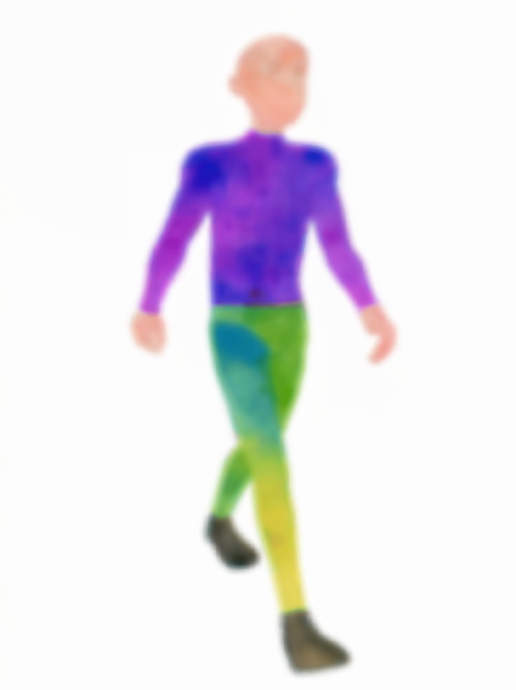
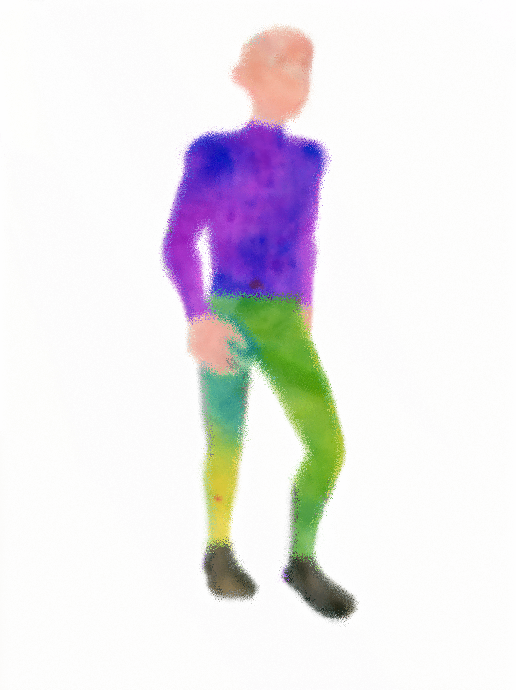
fixed voting

Changed region(s): [[0.2481, 0.0913, 0.7752, 1.0], [0.4651, 0.0304, 0.6202, 0.1522]]

diff --git a/cult.cpp b/cult.cpp
@@ -164,52 +164,103 @@ Image Cult::patchmatch(const Image& target, const Image& source){
     return output_image;
 }
 
-Image Cult::vote(const Image& target, const Image& source, NNF& nnf){
+// Image Cult::vote(const Image& target, const Image& source, NNF& nnf){
+//     Image processed_frame = target;
+//     std::vector<RGB> processed_pixels;
+//     //For each pixel
+//     const std::vector<RGB>& pixels = target.pixels;
+//     for(int i = 0; i < pixels.size(); i++){
+//         int x = i%target.width;
+//         int y = i/target.width;
+//         RGB accum;
+//         accum.r = 0,accum.g = 0, accum.b = 0;
+//         int count = 0;
+//         //For each pixel in the patch radius around iterated pixel
+//         for(int dy = -PATCH_RADIUS; dy <= PATCH_RADIUS; dy++){
+//             for(int dx = -PATCH_RADIUS; dx <= PATCH_RADIUS; dx++){
+//                 //Offset position
+//                 int px = x + dx;
+//                 int py = y + dy;
+
+//                 //patch validity check
+//                 if(Patchmatch::isValidPatch(target, px, py, PATCH_RADIUS)){
+//                     Match match = nnf[py*target.width + px];
+
+//                     //match to source
+//                     int sx = match.u - dx;
+//                     int sy = match.v - dy;
+
+//                     if(sx>=0 && sx < source.width && sy>=0 && sy<source.height){
+//                         RGB rgb = ImageUtils::rgbAt(source, sx, sy);
+//                         accum.r += rgb.r;
+//                         accum.g += rgb.g;
+//                         accum.b += rgb.b;
+//                         count++;
+//                     }
+
+//                 }
+//             }
+//         }
+//         RGB outRGB;
+//         if(count==0) std::cout<<"No matches found in voting";
+//         outRGB.r = accum.r/count;
+//         outRGB.g = accum.g/count;
+//         outRGB.b = accum.b/count;
+//         outRGB.a = 255;
+//         processed_pixels.push_back(outRGB);
+//     }
+//     processed_frame.pixels = processed_pixels;
+//     return processed_frame;
+// }
+
+Image Cult::vote(const Image& target, const Image& source, NNF& nnf) {
     Image processed_frame = target;
-    std::vector<RGB> processed_pixels;
-    //For each pixel
-    const std::vector<RGB>& pixels = target.pixels;
-    for(int i = 0; i < pixels.size(); i++){
-        int x = i%target.width;
-        int y = i/target.width;
-        RGB accum;
-        accum.r = 0,accum.g = 0, accum.b = 0;
-        int count = 0;
-        //For each pixel in the patch radius around iterated pixel
-        for(int dy = -PATCH_RADIUS; dy <= PATCH_RADIUS; dy++){
-            for(int dx = -PATCH_RADIUS; dx <= PATCH_RADIUS; dx++){
-                //Offset position
-                int px = x + dx;
-                int py = y + dy;
+    processed_frame.pixels.resize(target.width * target.height);
 
-                //patch validity check
-                if(Patchmatch::isValidPatch(target, px, py, PATCH_RADIUS)){
-                    Match match = nnf[py*target.width + px];
+    thread_local std::mt19937 rng(std::random_device{}());
 
-                    //match to source
+    for (int y = 0; y < target.height; y++) {
+        for (int x = 0; x < target.width; x++) {
+
+            std::vector<RGB> candidates;
+            candidates.reserve((2 * PATCH_RADIUS + 1) * (2 * PATCH_RADIUS + 1));
+
+            for (int dy = -PATCH_RADIUS; dy <= PATCH_RADIUS; dy++) {
+                for (int dx = -PATCH_RADIUS; dx <= PATCH_RADIUS; dx++) {
+                    int px = x + dx;
+                    int py = y + dy;
+
+                    if (!Patchmatch::isValidPatch(target, px, py, PATCH_RADIUS))
+                        continue;
+
+                    Match match = nnf[py * target.width + px];
+
+                    // If match.u/match.v is the center of the matched source patch,
+                    // then the source pixel corresponding to target pixel (x,y) is:
                     int sx = match.u - dx;
                     int sy = match.v - dy;
 
-                    if(sx>=0 && sx < source.width && sy>=0 && sy<source.height){
-                        RGB rgb = ImageUtils::rgbAt(source, sx, sy);
-                        accum.r += rgb.r;
-                        accum.g += rgb.g;
-                        accum.b += rgb.b;
-                        count++;
+                    if (sx >= 0 && sx < source.width &&
+                        sy >= 0 && sy < source.height) {
+                        candidates.push_back(ImageUtils::rgbAt(source, sx, sy));
                     }
-
                 }
             }
+
+            RGB out;
+            if (!candidates.empty()) {
+                std::uniform_int_distribution<int> dist(0, candidates.size() - 1);
+                out = candidates[dist(rng)];
+                out.a = 255;
+            } else {
+                out = ImageUtils::rgbAt(target, x, y);
+                out.a = 255;
+            }
+
+            processed_frame.pixels[y * target.width + x] = out;
         }
-        RGB outRGB;
-        if(count==0) std::cout<<"No matches found in voting";
-        outRGB.r = accum.r/count;
-        outRGB.g = accum.g/count;
-        outRGB.b = accum.b/count;
-        outRGB.a = 255;
-        processed_pixels.push_back(outRGB);
     }
-    processed_frame.pixels = processed_pixels;
+
     return processed_frame;
 }
 

diff --git a/cult.h b/cult.h
@@ -39,9 +39,10 @@ private:
 
     Image vote(const Image& target, const Image& source, NNF& nnf);
     
-    const int PATCH_RADIUS = 3;
+    const int PATCH_RADIUS = 5;
     const int PATCHMATCH_ITERATIONS = 4;
-    const float FILTER_STRENGTH = 3;
+    const int WEXLER_ITERS = 3;
+    const float FILTER_STRENGTH = 1.3;
     const int GRID_SIZE = 50;
 };
 
